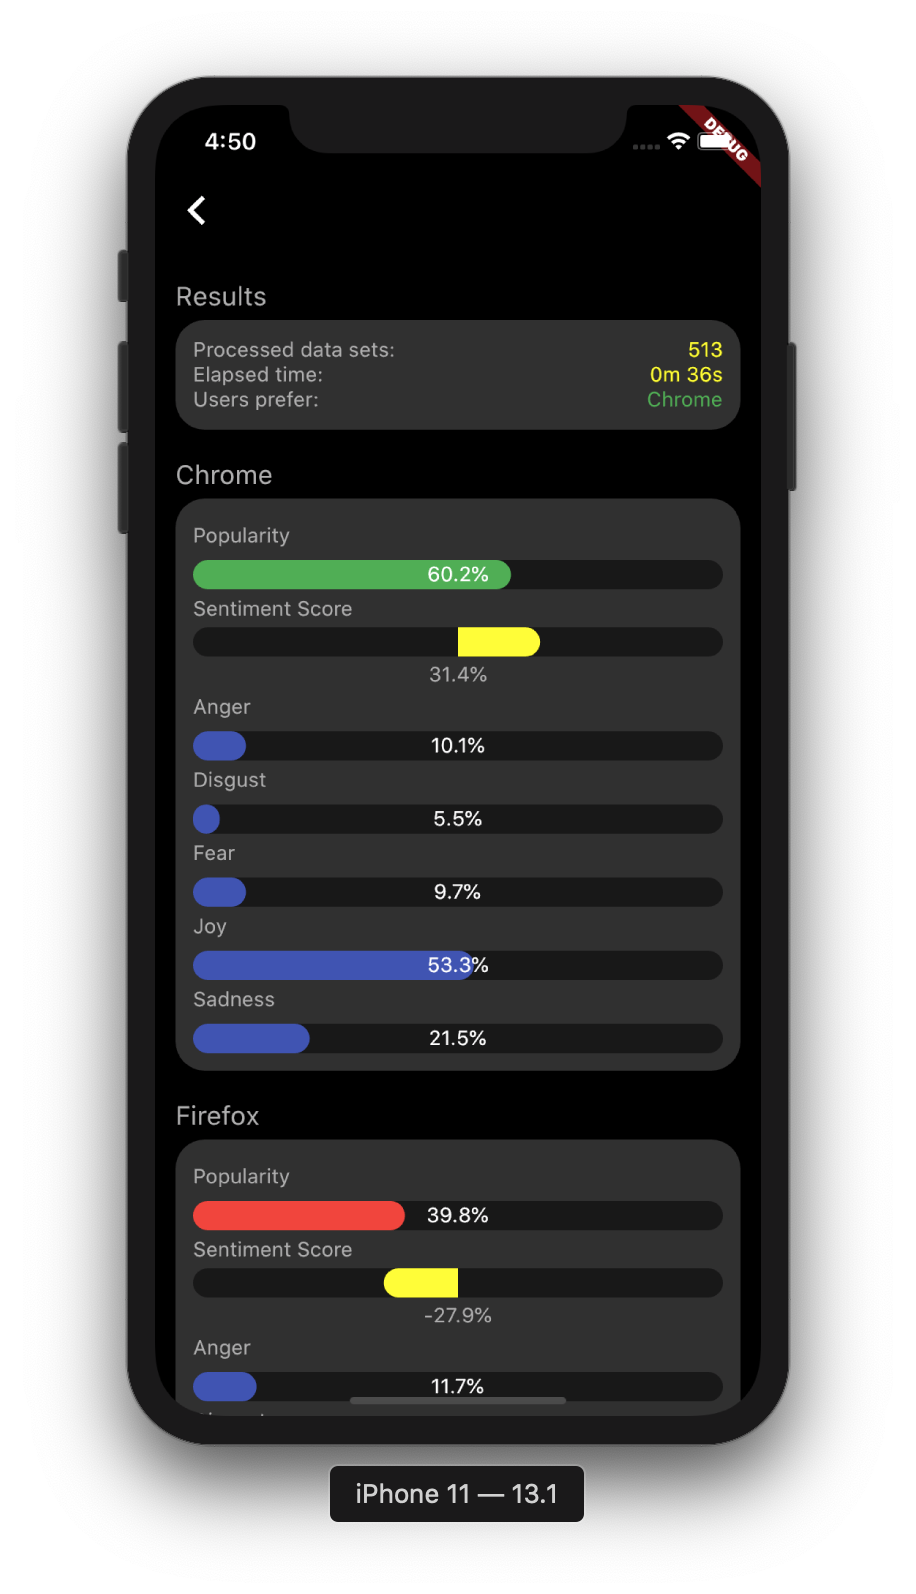
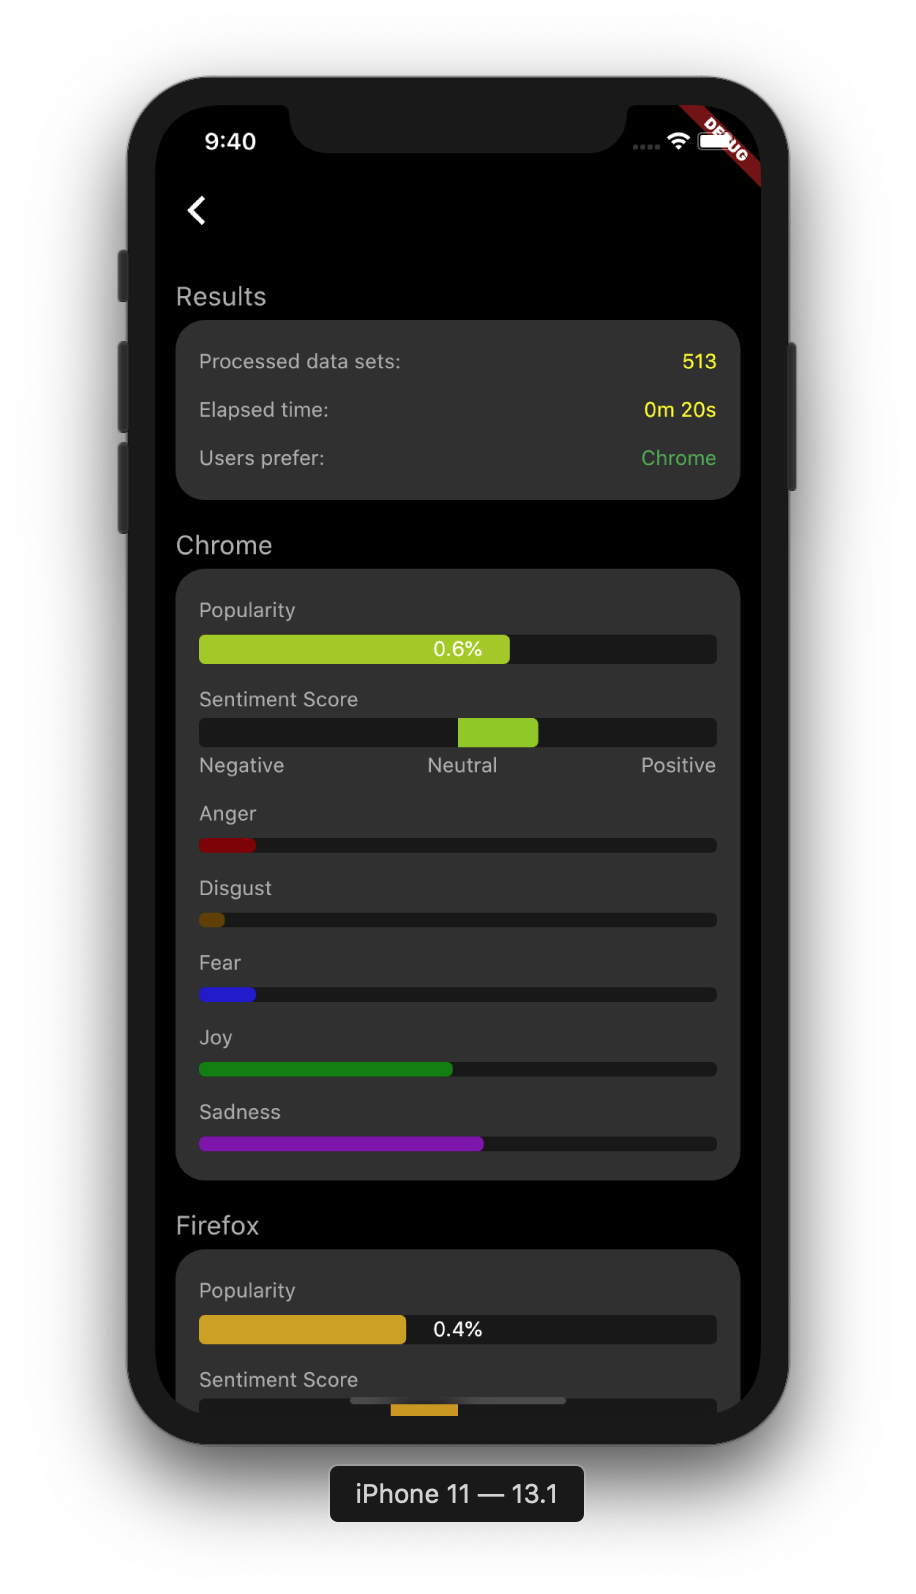
style: add media and aspect box title

Changed region(s): [[0.1834, 0.2152, 0.8253, 0.8915], [0.7031, 0.4611, 0.7642, 0.4918], [0.214, 0.0615, 0.2751, 0.0922]]

diff --git a/lib/screens/query_result_screen/widgets/aspect_results_box.dart b/lib/screens/query_result_screen/widgets/aspect_results_box.dart
@@ -6,8 +6,14 @@ import 'package:flutter/material.dart';
 
 class AspectResultsBox extends StatelessWidget {
   final Map<String, ClassifiedData> aspectResults;
+  final String objA;
+  final String objB;
 
-  AspectResultsBox({@required this.aspectResults});
+  AspectResultsBox({
+    @required this.aspectResults,
+    @required this.objA,
+    @required this.objB,
+  });
 
   @override
   Widget build(BuildContext context) {
@@ -15,10 +21,36 @@ class AspectResultsBox extends StatelessWidget {
       title: Row(
         mainAxisAlignment: MainAxisAlignment.spaceBetween,
         children: [
+          SizedBox(
+            width: MediaQuery.of(context).size.width * 0.3,
+            child: Row(
+              mainAxisAlignment: MainAxisAlignment.start,
+              children: [
+                Text(
+                  objA,
+                  style: TextStyle(
+                      color: Color.fromRGBO(174, 174, 174, 1), fontSize: 18),
+                ),
+              ],
+            )
+          ),
           Text(
-            'Aspects',
+            'vs',
             style: TextStyle(
                 color: Color.fromRGBO(174, 174, 174, 1), fontSize: 18),
+          ),
+          SizedBox(
+            width: MediaQuery.of(context).size.width * 0.3,
+            child: Row(
+              mainAxisAlignment: MainAxisAlignment.end,
+              children: [
+                Text(
+                  objB,
+                  style: TextStyle(
+                      color: Color.fromRGBO(174, 174, 174, 1), fontSize: 18),
+                ),
+              ],
+            )
           ),
         ],
       ),

diff --git a/lib/screens/query_result_screen/query_result_screen.dart b/lib/screens/query_result_screen/query_result_screen.dart
@@ -133,6 +133,8 @@ class _QueryResultScreenState extends State<QueryResultScreen> {
                     if (snapshot.data.aspectResults != null)
                       AspectResultsBox(
                         aspectResults: snapshot.data.aspectResults,
+                        objA: _objA,
+                        objB: _objB,
                       )
                   ],
                 ),
